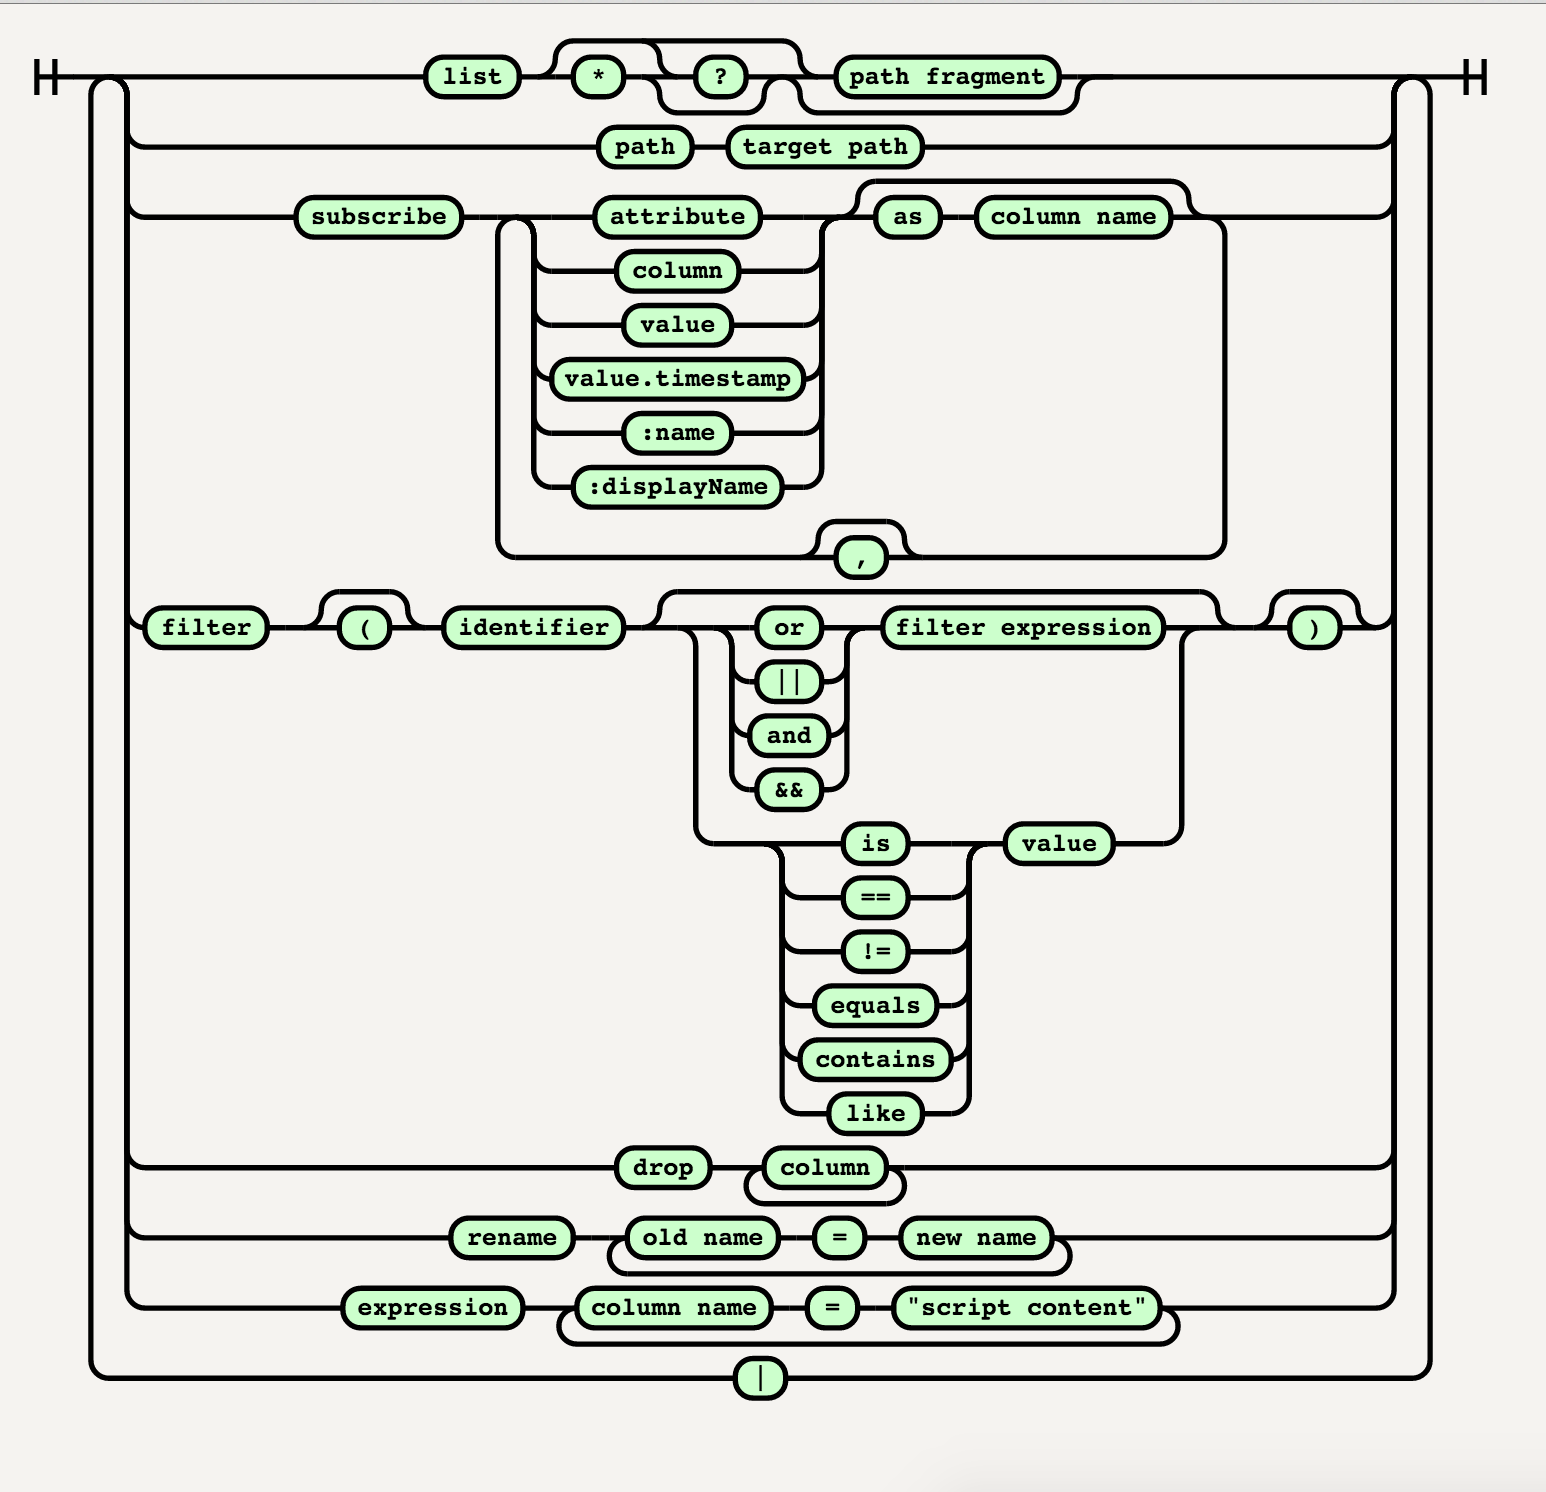
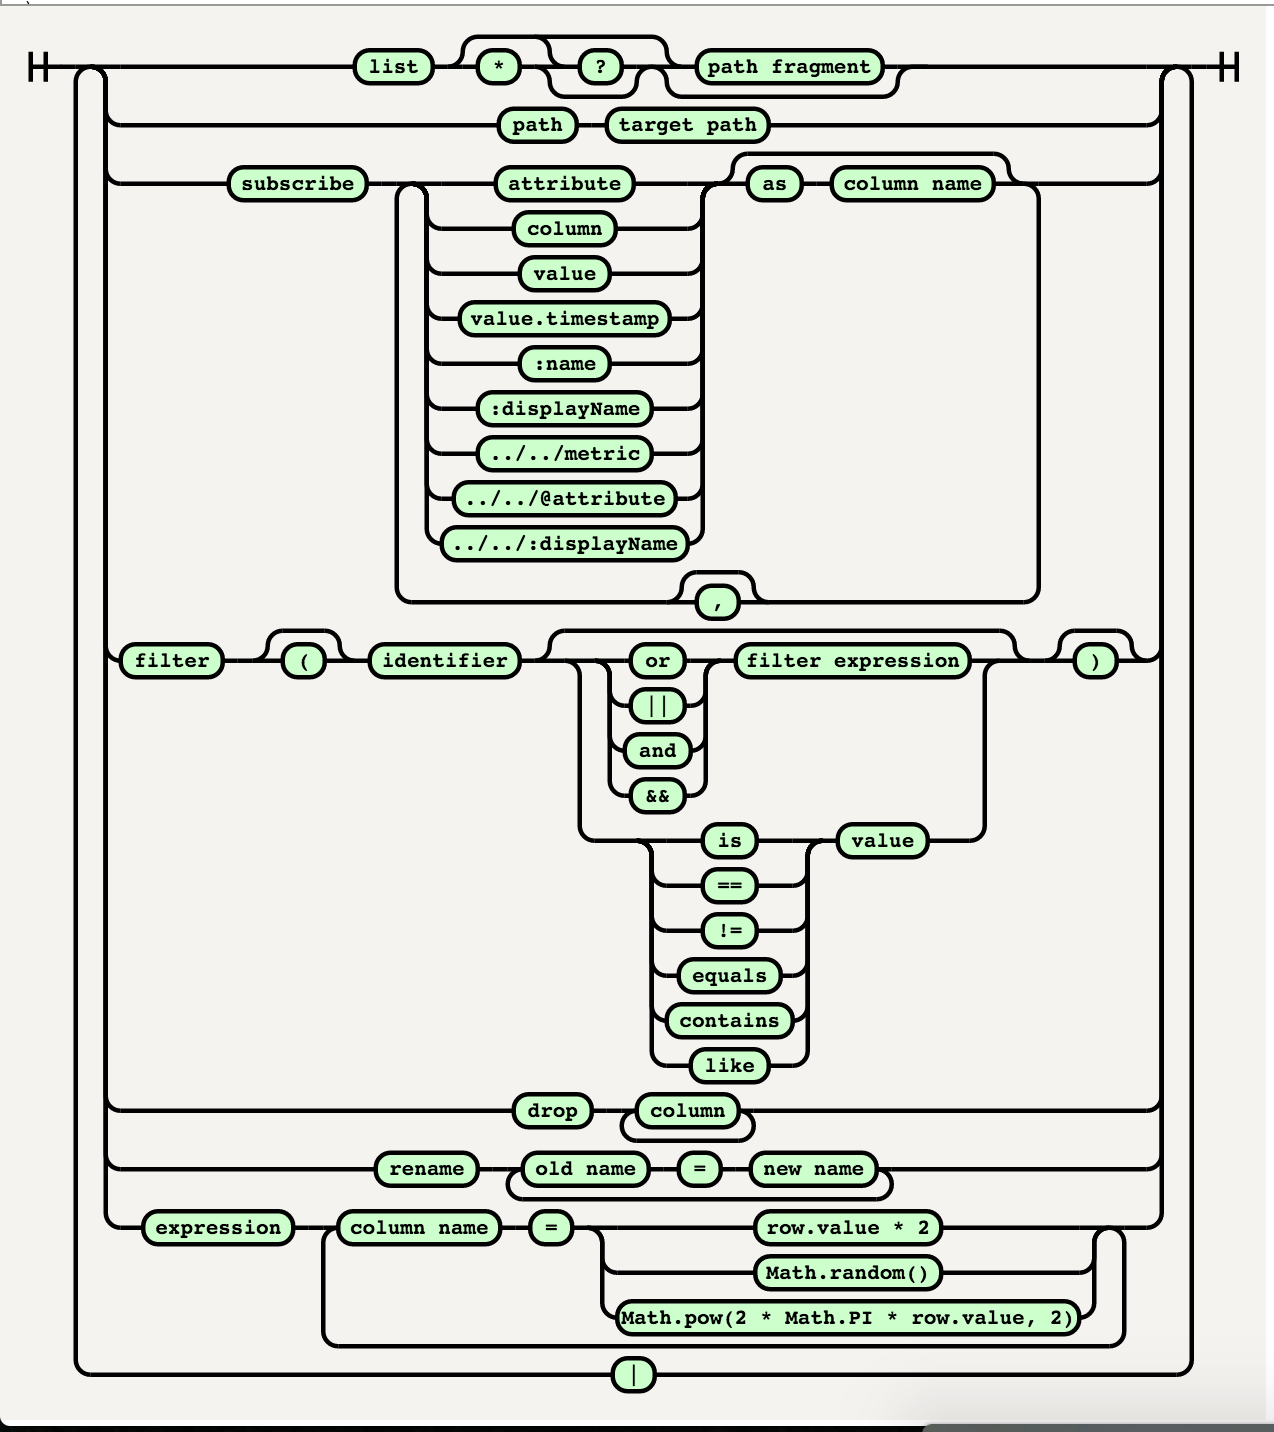
Update diagram.

Changed region(s): [[0.0, 0.0, 1.0, 1.0]]

diff --git a/tool/diagram.js b/tool/diagram.js
@@ -25,7 +25,10 @@ Diagram(
               'value',
               'value.timestamp',
               ':name',
-              ':displayName'
+              ':displayName',
+              '../../metric',
+              '../../@attribute',
+              '../../:displayName'
             ),
             Optional(
               Sequence(
